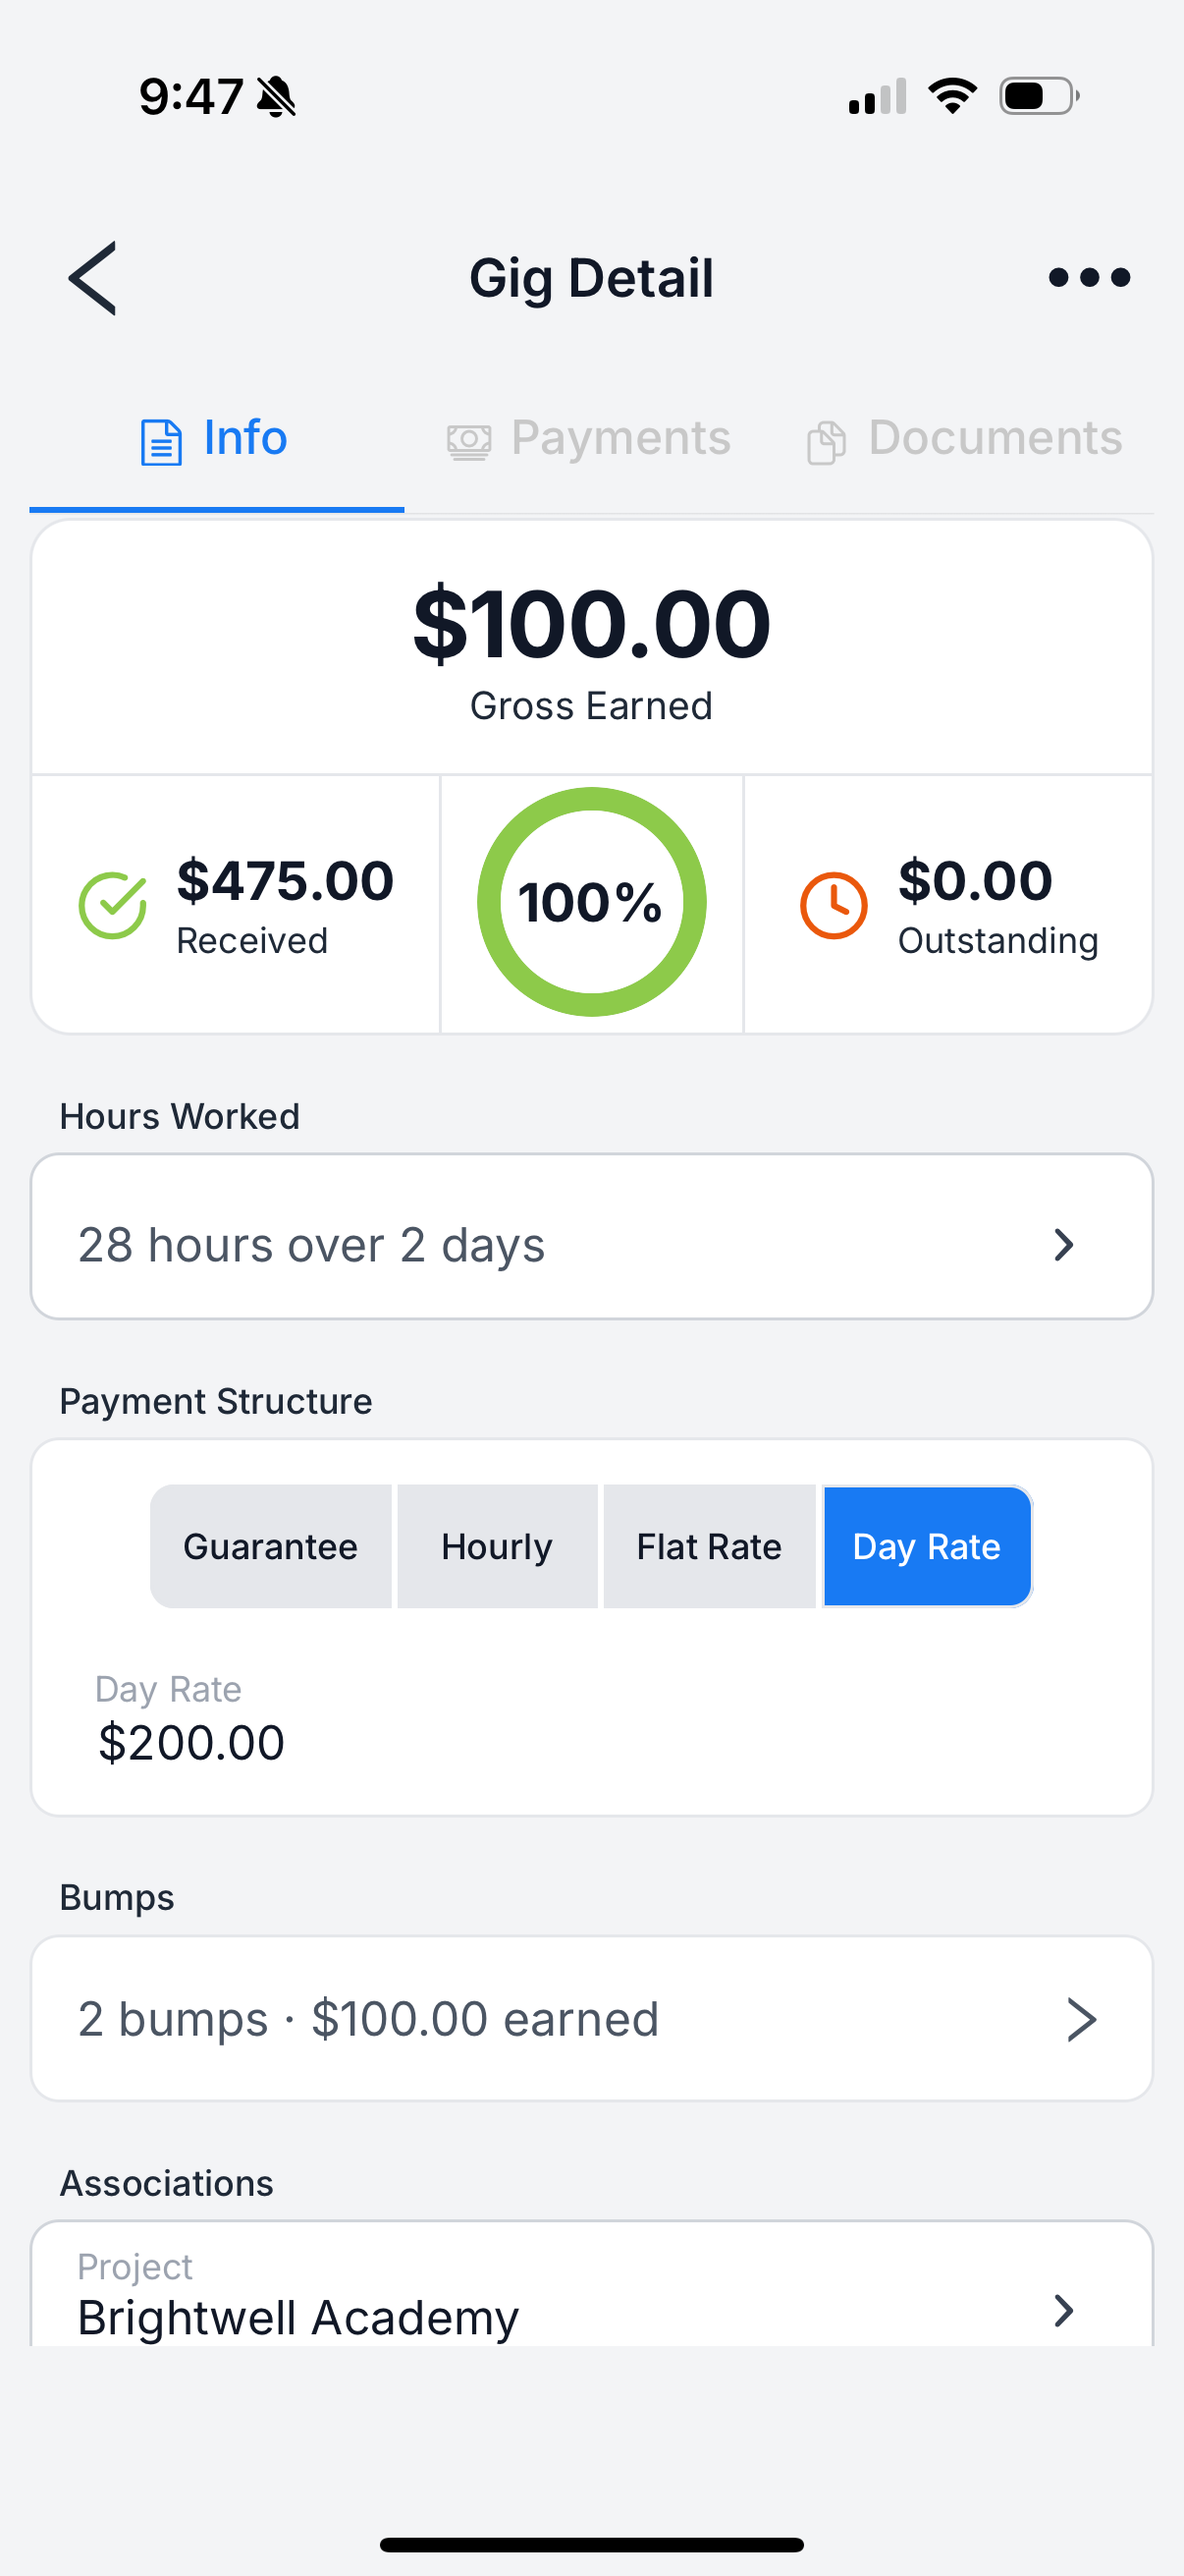
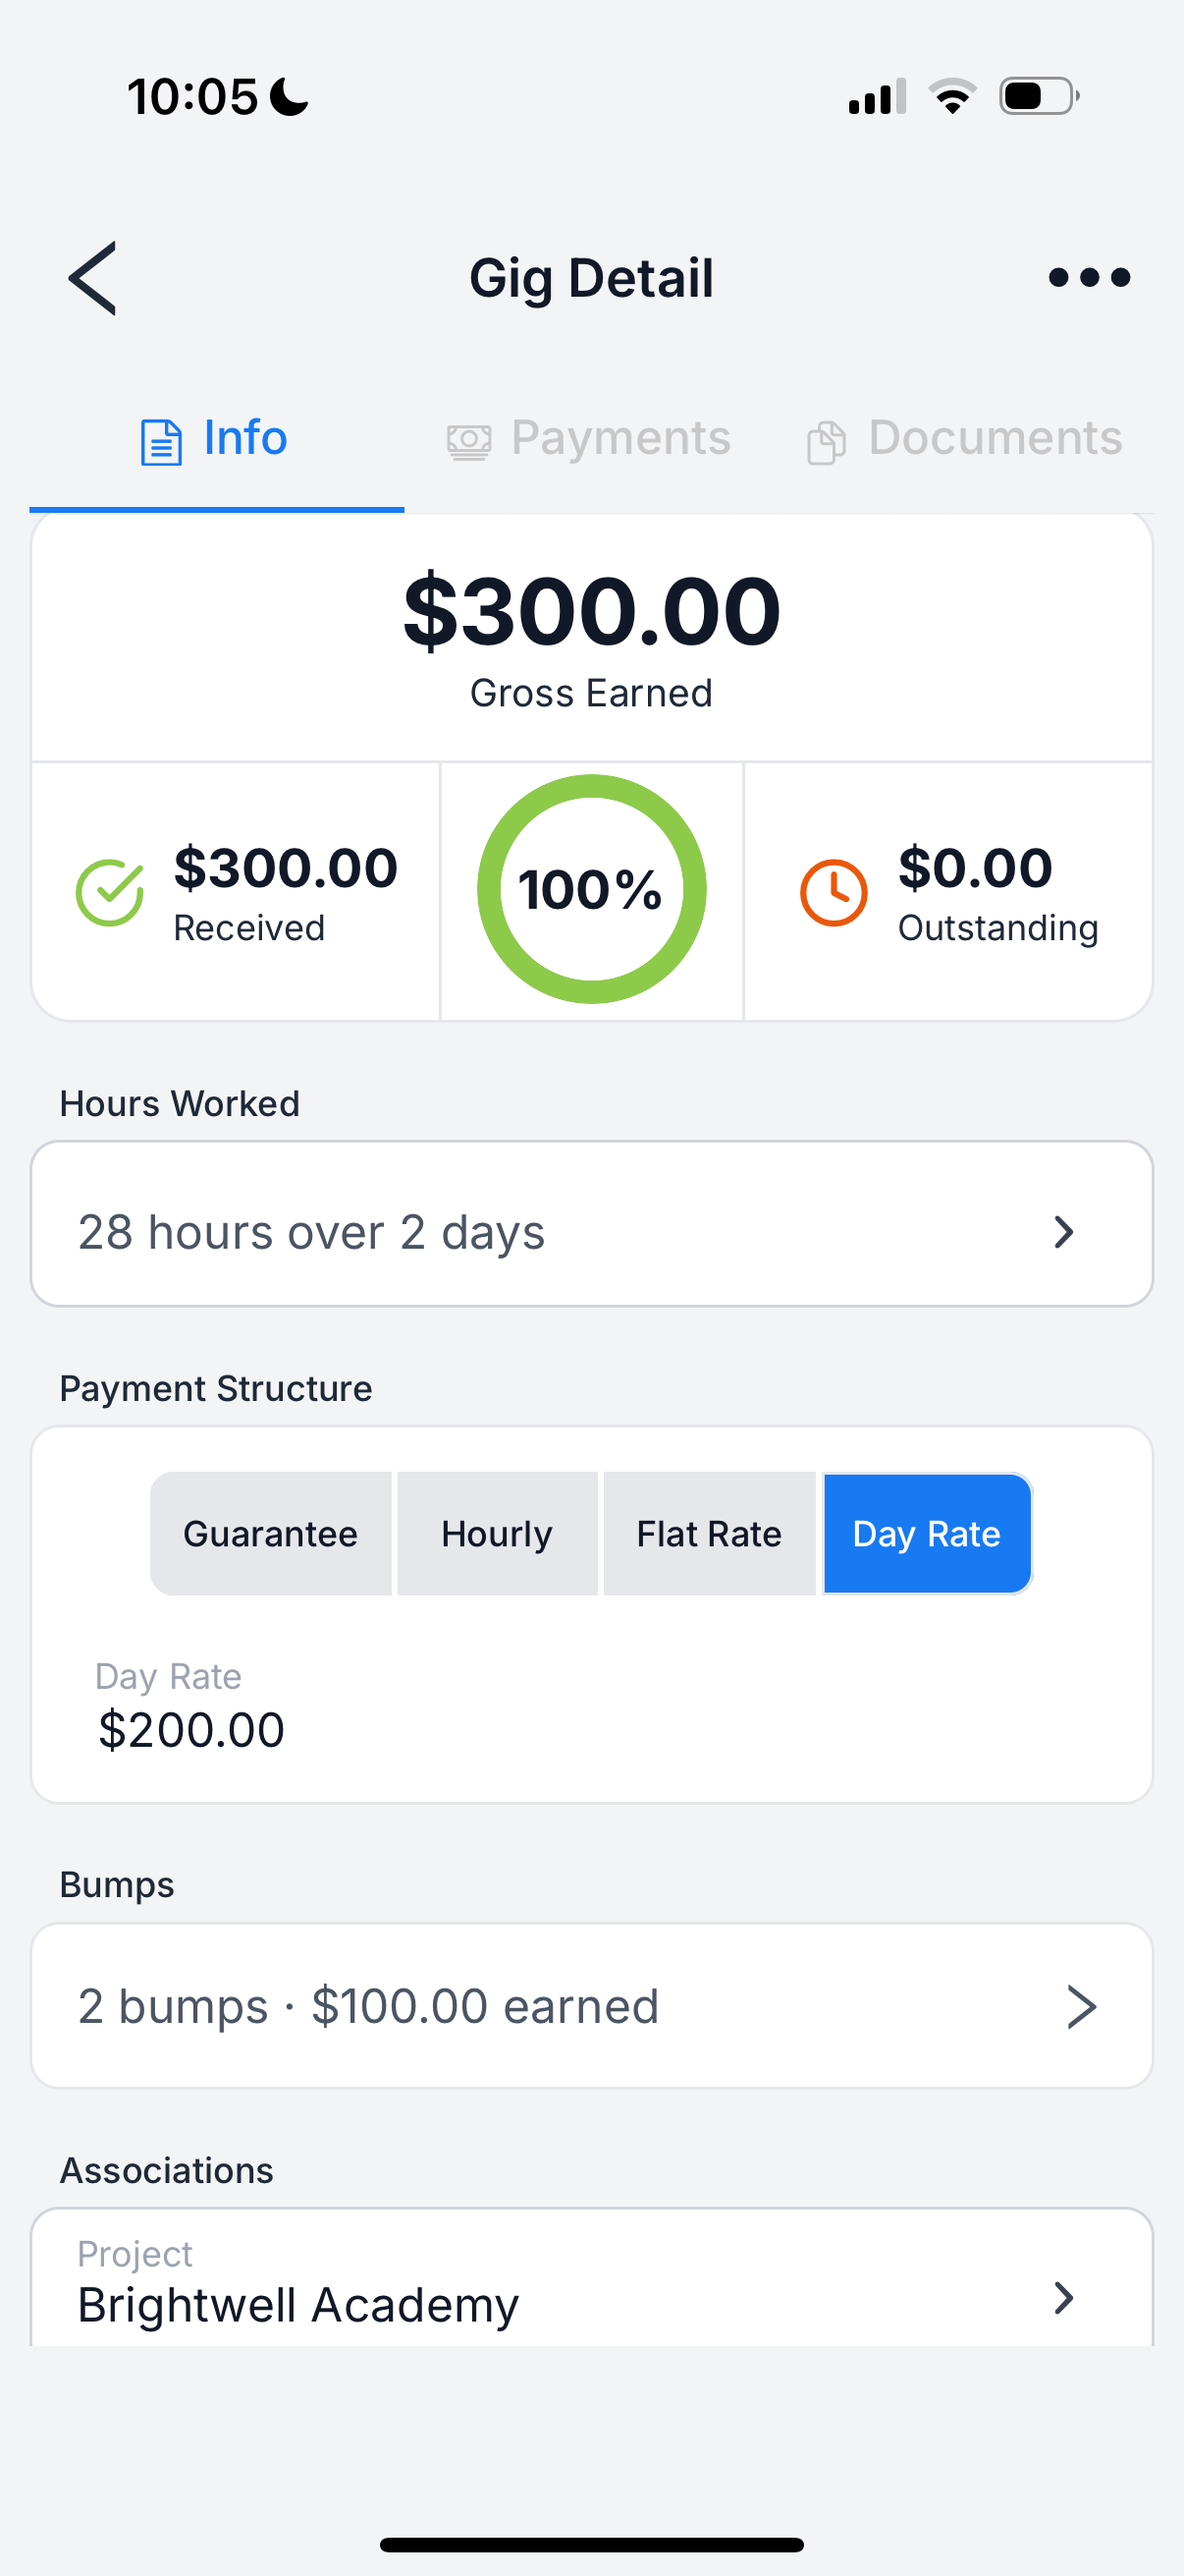
Add dark-mode app screenshots and corrected gig-detail data
Theme-swap the /app screenshots so dark-mode visitors see native dark captures
(opportunities feed + detail, gig detail, Today, documents, insights, and the
hero). Replace the gig-detail screenshot with a corrected capture (00 gross /
00 received / /bin/bash outstanding). Calendar, the earnings gig-detail and the
payments summary keep their light captures until dark versions arrive.

Claude-Session: https://claude.ai/code/session_01WzGiwxk3aLHFqGARoLBHeX

diff --git a/src/app/app/page.tsx b/src/app/app/page.tsx
@@ -62,9 +62,9 @@ function TwoPhones({ a, b }: { a: React.ReactNode; b: React.ReactNode }) {
 function HeroPhones() {
   return (
     <div className="relative flex items-end justify-center overflow-hidden py-4">
-      <PhoneShot src="/app/opportunities-feed.png" alt="The GigDock opportunities feed with GigFit matching"
+      <PhoneShot src="/app/opportunities-feed.png" darkSrc="/app/opportunities-feed-dark.png" alt="The GigDock opportunities feed with GigFit matching"
         className="hidden max-w-[128px] -mr-10 -rotate-6 translate-y-5 opacity-95 sm:block" />
-      <PhoneShot src="/app/gig-detail.png" alt="A gig's detail in GigDock — earnings, hours, day rate and bumps"
+      <PhoneShot src="/app/gig-detail.png" darkSrc="/app/gig-detail-dark.png" alt="A gig's detail in GigDock — earnings, hours, day rate and bumps"
         priority className="relative z-10 max-w-[168px]" />
       <PhoneShot src="/guides/gigdock-app-payments-summary.png" alt="The GigDock payments summary — received versus outstanding"
         className="hidden max-w-[128px] -ml-10 rotate-6 translate-y-5 opacity-95 sm:block" />
@@ -206,8 +206,8 @@ export default function Page() {
         <section className="space-y-16 border-t border-zinc-200 dark:border-zinc-800 py-12">
           <Feature eyebrow="Find opportunities" title="Spend less time hunting for the next gig." cta={browseLink}
             shot={<TwoPhones
-              a={<PhoneShot src="/app/opportunities-feed.png" alt="The GigDock opportunities feed — search, filters and GigFit matching across 55 opportunities" className="max-w-[150px]" />}
-              b={<PhoneShot src="/app/opportunity-detail.png" alt="A GigDock opportunity detail with a GigFit strong-match badge and Save, Share and Applied actions" className="mt-6 max-w-[150px]" />}
+              a={<PhoneShot src="/app/opportunities-feed.png" darkSrc="/app/opportunities-feed-dark.png" alt="The GigDock opportunities feed — search, filters and GigFit matching across 55 opportunities" className="max-w-[150px]" />}
+              b={<PhoneShot src="/app/opportunity-detail.png" darkSrc="/app/opportunity-detail-dark.png" alt="A GigDock opportunity detail with a GigFit strong-match badge and Save, Share and Applied actions" className="mt-6 max-w-[150px]" />}
             />}>
             <p>Film &amp; TV opportunities are scattered across casting sites, company pages and social feeds. GigDock
               brings opportunities from multiple sources into one searchable feed so you can spend less time checking
@@ -219,7 +219,7 @@ export default function Page() {
           </Feature>
 
           <Feature eyebrow="Manage your gigs" title="When it becomes work, keep the details with it." reverse
-            shot={<PhoneShot src="/app/gig-detail.png" alt="A gig's detail in GigDock showing gross earned, hours worked, day rate, bumps and the associated project, with Info, Payments and Documents tabs" />}>
+            shot={<PhoneShot src="/app/gig-detail.png" darkSrc="/app/gig-detail-dark.png" alt="A gig's detail in GigDock showing gross earned, hours worked, day rate, bumps and the associated project, with Info, Payments and Documents tabs" />}>
             <p>A booking can generate a surprising amount of information. GigDock gives each gig its own home.</p>
             <p>Keep the production or project, casting company, payroll company, work dates, rate and guaranteed hours
               together. Add the hours you actually worked, bumps or additional pay, notes and other details as the gig
@@ -230,7 +230,7 @@ export default function Page() {
 
           <Feature eyebrow="Stay on top of it" title="Know what's next."
             shot={<TwoPhones
-              a={<PhoneShot src="/app/today.png" alt="The GigDock Today screen showing today's gig, gigs awaiting payment, an earnings insight and new opportunities" className="max-w-[150px]" />}
+              a={<PhoneShot src="/app/today.png" darkSrc="/app/today-dark.png" alt="The GigDock Today screen showing today's gig, gigs awaiting payment, an earnings insight and new opportunities" className="max-w-[150px]" />}
               b={<PhoneShot src="/app/calendar.png" alt="The GigDock calendar for the month with color-coded booked, worked and paid gigs" className="mt-6 max-w-[150px]" />}
             />}>
             <p>Gig work moves quickly — what matters today may be completely different tomorrow. GigDock gives your work
@@ -258,14 +258,14 @@ export default function Page() {
           </Feature>
 
           <Feature eyebrow="Keep the paperwork" title="Keep important documents close to the gig." reverse
-            shot={<PhoneShot src="/app/documents.png" alt="The GigDock documents view with pay stubs, vouchers, receipts and contracts kept with your gigs" />}>
+            shot={<PhoneShot src="/app/documents.png" darkSrc="/app/documents-dark.png" alt="The GigDock documents view with pay stubs, vouchers, receipts and contracts kept with your gigs" />}>
             <p>Gig work creates paperwork too. Keep relevant documents with your work so the information you may need
               later isn&rsquo;t buried in your camera roll, downloads folder or inbox.</p>
             <p>The goal isn&rsquo;t simply to store files. It&rsquo;s to keep the information around a gig connected.</p>
           </Feature>
 
           <Feature eyebrow="See the bigger picture" title="Your gigs tell a story."
-            shot={<PhoneShot src="/app/insights.png" alt="The GigDock Insights screen — gross earned, net recorded, weekly earnings, days and gigs worked, average per day, and received versus outstanding payments for the month" />}>
+            shot={<PhoneShot src="/app/insights.png" darkSrc="/app/insights-dark.png" alt="The GigDock Insights screen — gross earned, net recorded, weekly earnings, days and gigs worked, average per day, and received versus outstanding payments for the month" />}>
             <p>Once your work and payments are organized, GigDock can help you see more than a list of individual gigs.
               See your earnings, work activity and payment status for the current period so you can understand how your
               gig work is adding up.</p>
